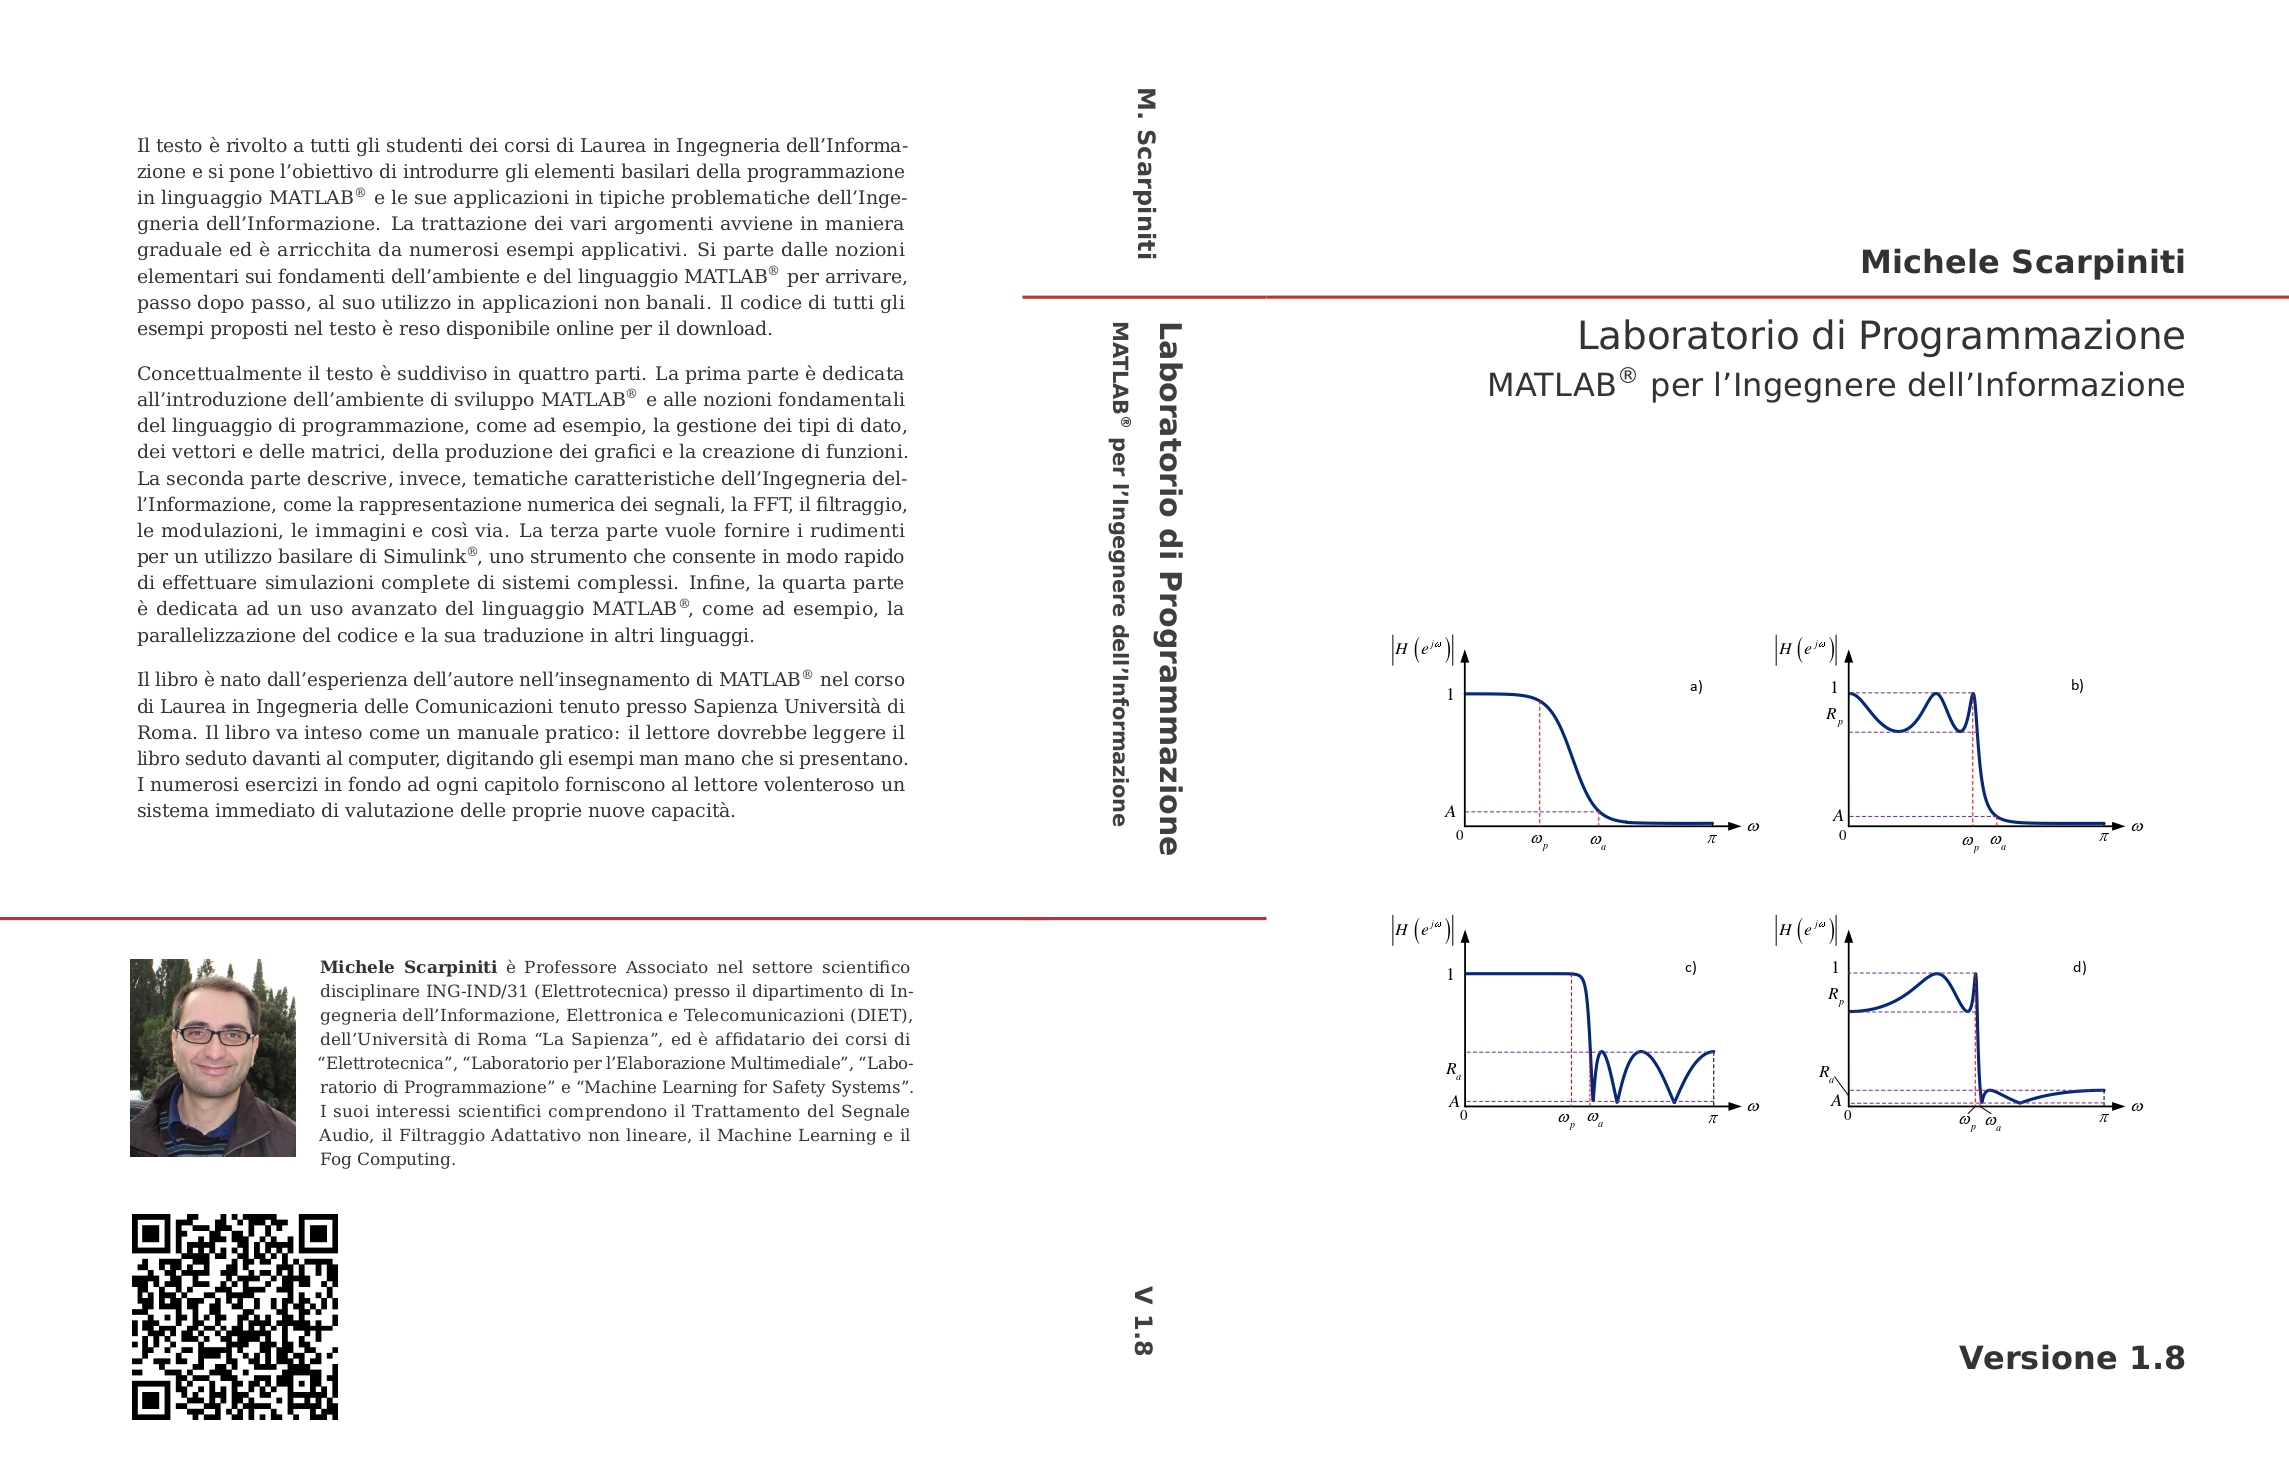
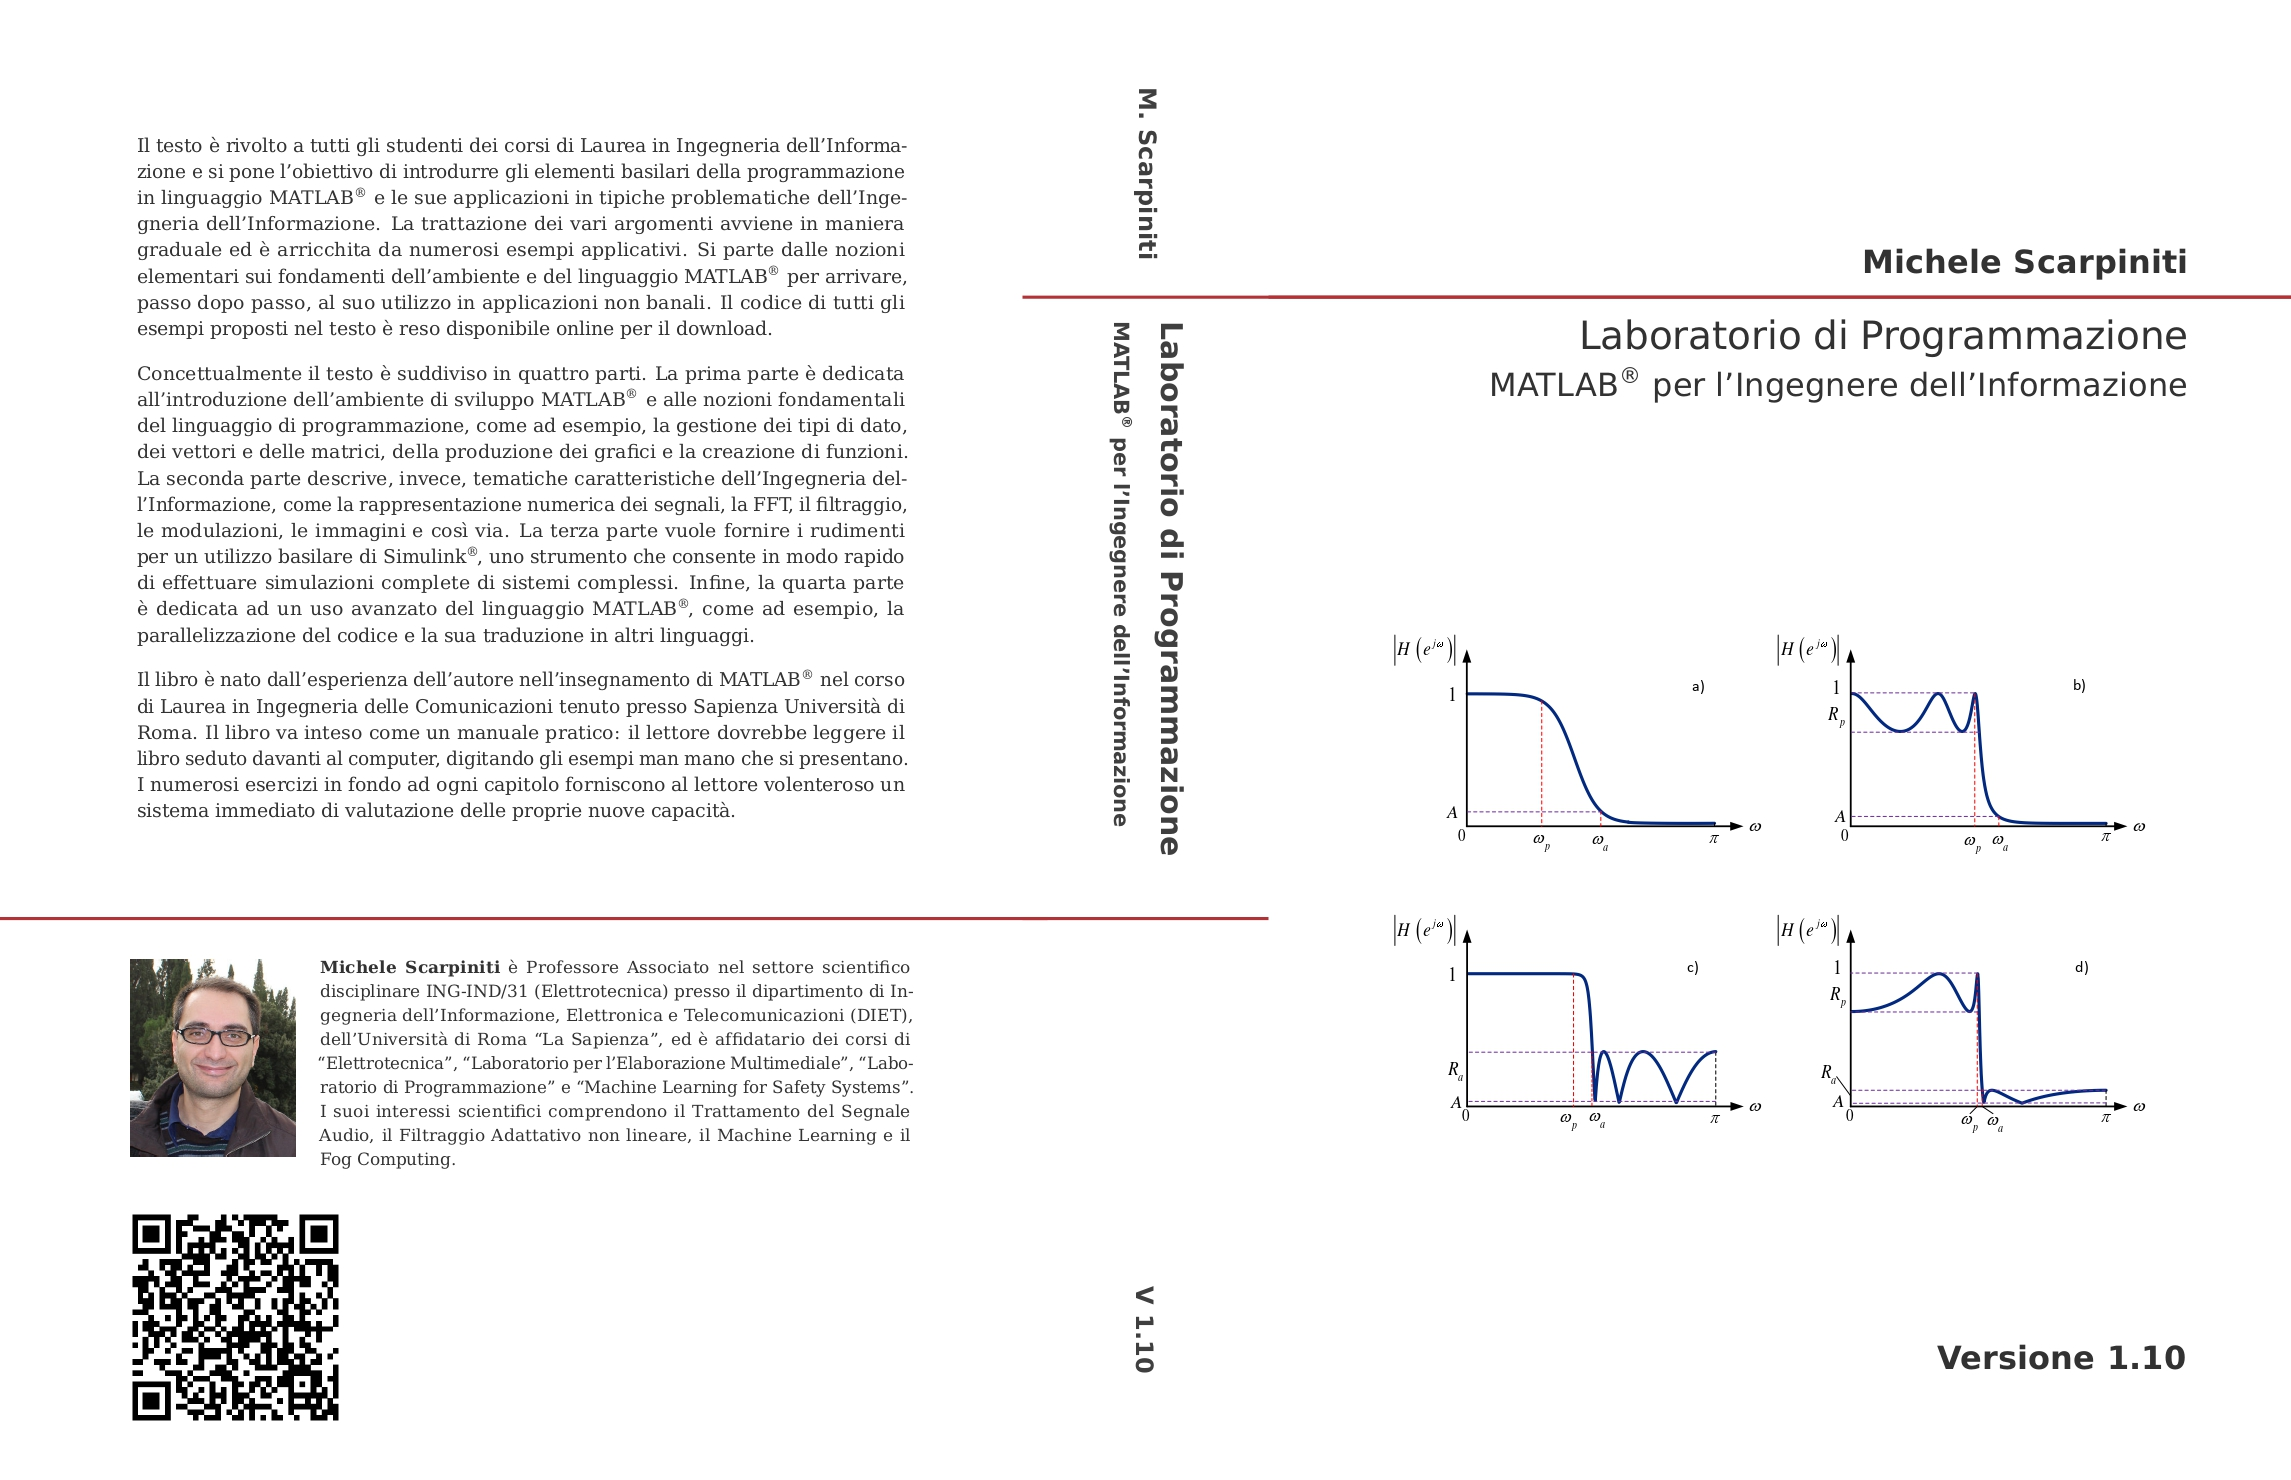
Update to release 1.10
New release 1.10

diff --git a/Capitolo18/EffettoLunghezzaFFT.m b/Capitolo18/EffettoLunghezzaFFT.m
@@ -1,0 +1,57 @@
+% Effetto della lunghezza della finestra nel calcolo della trasformata di
+% Fourier discrete (DFT) tramite FFT.
+%
+% M. Scarpiniti (Dip. DIET - Sapienza Università di Roma)
+
+Fs = 1000;     % Frequenza di campionamento
+f0 = 100;      % Frequenza della sinusoide
+t = 0:1/Fs:1;  % Asse temporale
+
+Na = length(t);  % Prima lughezza della FFT
+Nb = 1024;       % Seconda lughezza della FFT
+Nc = 256;        % Terza lughezza della FFT
+Nd = 128;        % Quarta lughezza della FFT
+fa = (-Na/2:Na/2-1)*(Fs/Na);  % Asse delle frequenze corrispondente a Na
+fb = (-Nb/2:Nb/2-1)*(Fs/Nb);  
+fc = (-Nc/2:Nc/2-1)*(Fs/Nc);
+fd = (-Nd/2:Nd/2-1)*(Fs/Nd);
+
+x = cos(2*pi*f0*t);   % Sinusoide
+
+Xa = fft(x, Na);      % FFT su Na punti
+Xb = fft(x, Nb);      % FFT su Nb punti
+Xc = fft(x, Nc);      % FFT su Nc punti
+Xd = fft(x, Nd);      % FFT su Nc punti
+
+
+% Grafico della FFT su Na punti
+figure
+plot(fa, abs(fftshift(Xa))/Na, LineWidth=1.2)
+grid on
+title('FFT con lunghezza N_a = L_x')
+xlabel('Frequenza [Hz]')
+ylabel('Ampiezza')
+
+% Grafico della FFT su Nb punti
+figure
+plot(fb, abs(fftshift(Xb))/Nb, LineWidth=1.2)
+grid on
+title('FFT con lunghezza N_b = 1024')
+xlabel('Frequenza [Hz]')
+ylabel('Ampiezza')
+
+% Grafico della FFT su Nc punti
+figure
+plot(fc, abs(fftshift(Xc))/Nc, LineWidth=1.2)
+grid on
+title('FFT con lunghezza N_c = 256')
+xlabel('Frequenza [Hz]')
+ylabel('Ampiezza')
+
+% Grafico della FFT su Nd punti
+figure
+plot(fd, abs(fftshift(Xd))/Nd, LineWidth=1.2)
+grid on
+title('FFT con lunghezza N_d = 128')
+xlabel('Frequenza [Hz]')
+ylabel('Ampiezza')

diff --git a/Capitolo18/RisoluzioneFFT.m b/Capitolo18/RisoluzioneFFT.m
@@ -1,0 +1,38 @@
+% Effetto della lunghezza della finestra sulla risoluzione in frequenza
+% della trasformata di Fourier discrete (DFT) tramite FFT.
+%
+% M. Scarpiniti (Dip. DIET - Sapienza Università di Roma)
+
+Fs = 1000;     % Frequenza di campionamento
+f1 = 100;      % Frequenza prima sinusoide
+f2 = 102;      % Frequenza seconda sinusoide
+t = 0:1/Fs:1;  % Asse temporale
+
+Na = 1024;     % Prima lughezza della FFT
+Nb = 256;      % Seconda lughezza della FFT
+fa = (0:Na-1)*(Fs/Na);  % Asse delle frequenze corrispondente a Na
+fb = (0:Nb-1)*(Fs/Nb);
+
+x = cos(2*pi*f1*t) + 0.8*cos(2*pi*f2*t);   % Sinusoide
+
+Xa = fft(x, Na);      % FFT su Na punti
+Xb = fft(x, Nb);      % FFT su Nb punti
+
+
+% Grafico della FFT su Na punti
+figure
+plot(fa(1:end/2+1), abs(Xa(1:end/2+1))/Na, LineWidth=1.2)
+xlim([60, 200])
+grid on
+title('FFT con lunghezza N_a = 1024')
+xlabel('Frequenza [Hz]')
+ylabel('Ampiezza')
+
+% Grafico della FFT su Nb punti
+figure
+plot(fb(1:end/2+1), abs(Xb(1:end/2+1))/Nb, LineWidth=1.2)
+xlim([60, 200])
+grid on
+title('FFT con lunghezza N_b = 256')
+xlabel('Frequenza [Hz]')
+ylabel('Ampiezza')

diff --git a/Capitolo18/Spettro_OndaTriangolare.m b/Capitolo18/Spettro_OndaTriangolare.m
@@ -5,12 +5,12 @@
 Fs = 1000;
 t = 0:1/Fs:4;
 x = sawtooth(2*pi*50*t, 0.5);
+L = length(x);
 X = fft(x);
 M = abs(X);
 F = angle(X);
 F2 = unwrap(F);
 
-L = length(X);
 f = (0:L-1)*(Fs/L);
 plot(f,M)
 subplot(1,2,1);
